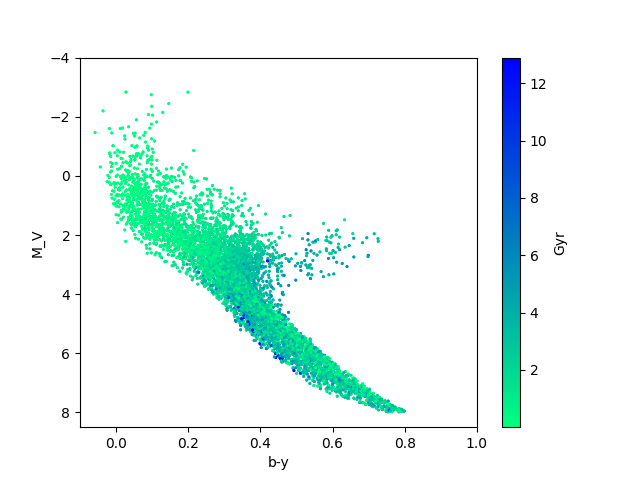
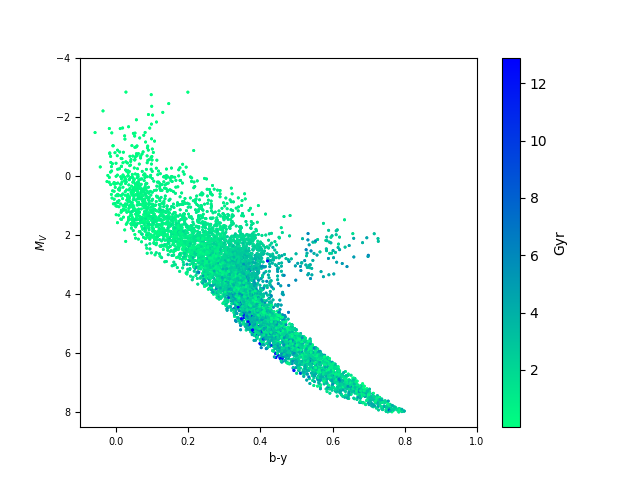
Perfezionato compiti per casa.

diff --git a/l4/es2.py b/l4/es2.py
@@ -11,6 +11,7 @@
 
 import numpy as np
 import matplotlib.pyplot as mpl
+import seaborn as sb
 
 # Importo i dati in tre array.
 
@@ -30,13 +31,15 @@ a = data[2]
 mpl.scatter(b, m, c = a, cmap = 'winter_r', marker = '.', s = 5)
 k = mpl.scatter(b, m, c = a, cmap = 'winter_r', marker = '.', s = 5)
 
-# Imposto l'intervallo di visualizzazione e dò un nome agli assi.
+# Imposto l'intervallo di visualizzazione e personalizzo agli assi.
 
 mpl.xlim(-0.1, 1)
 mpl.ylim(8.5, -4)
 
-mpl.xlabel('b-y')
-mpl.ylabel('M_V')
+mpl.xlabel('b-y', size = 'small')
+mpl.ylabel('$M_V$', size = 'small')
+
+mpl.tick_params(labelsize = 'x-small')
 
 # Aggiungo una colorbar con il comando colorbar e aggiungo un label.
 # La scala dei colori è data da 'age_parent'.
@@ -53,16 +56,20 @@ mpl.clf()
 # ========================== 
 
 
-# II. Creo uno scatter con varie classi di colori
+# II. Creo uno scatter con varie classi di colori.
+# Creo un array con quanti colori voglio. Uso seaborn.
+
+nc = 25
+palette = sb.color_palette('gist_ncar', nc)
+
 # Devo usare l'array 'data' per associare a ciascuna coppia (m, b) il colore giusto.
 # Cerco minimo e massimo del vettore 'age_parent' (data[2]).
 
 mn = min(data[2])
 mx = max(data[2])
 
-# Seleziono il numero di classi e creo due vettori contenti gli estremi inf/sup.
+# Dal numero di classi creo due vettori contenti gli estremi inf/sup.
 
-nc = 15
 d = (mx - mn)/nc
 inf = []
 sup = []
@@ -79,9 +86,9 @@ sup_l = np.around(sup, decimals = 1)
 for i in range(nc):
   id_i = np.where(data[2] <= sup[i])
   id_s = np.where(data[2][id_i] >= inf[i])
-  mpl.scatter(data[1, id_s], data[0, id_s], marker = '.', s = 5, label = ("{} Gyr - {} Gyr" .format(inf_l[i], sup_l[i])))
+  mpl.scatter(data[1, id_s], data[0, id_s], color = palette [i], marker = '.', s = 5, label = ("{} Gyr - {} Gyr" .format(inf_l[i], sup_l[i])))
 
-# Imposto l'intervallo di visualizzazione e dò un nome agli assi. Creo una legenda.
+# Imposto l'intervallo di visualizzazione e configuro agli assi. Creo una legenda.
 
 mpl.xlim(-0.1, 1)
 mpl.ylim(8.5, -4)
@@ -89,7 +96,9 @@ mpl.ylim(8.5, -4)
 mpl.xlabel('b-y', size = 'small')
 mpl.ylabel('$M_V$', size = 'small')
 
-mpl.legend(fontsize = 'x-small')
+mpl.tick_params(labelsize = 'x-small')
+
+mpl.legend(fontsize = 'xx-small')
 
 # Salvo la figura ottenuta in questo modo.
 
